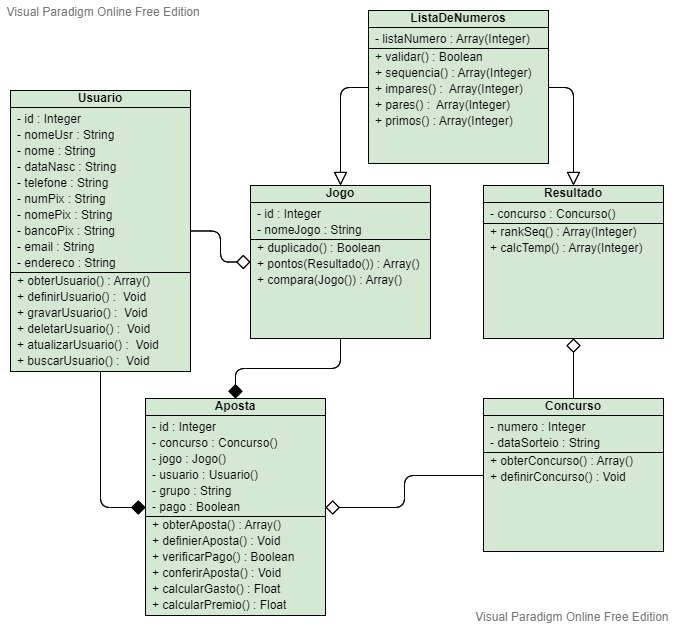
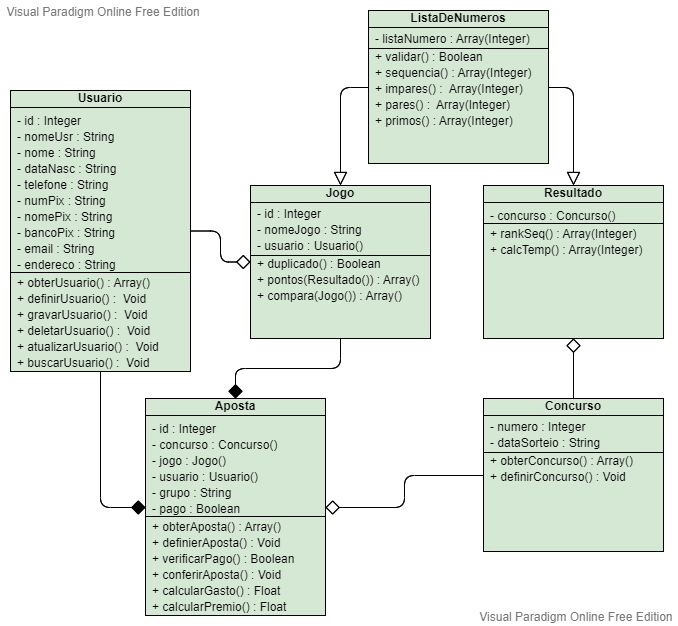
inicio2

diff --git a/criarjogo.php b/criarjogo.php
@@ -1,0 +1,19 @@
+<?php
+require_once "src/jogo.php";
+require_once "src/aposta.php";
+require_once "src/concurso.php";
+require_once "src/resultado.php";
+require_once "src/usuario.php";
+require_once "src/listadenumeros.php";
+
+
+$user01= new Usuario('Walysson dos Reis');
+
+$jogo01= new Jogo($user01,[1,2,3,4,5,6,7,8,9,10,11,12,13,14,15]);
+
+$cc01 = new Concurso(2500);
+
+$aposta01 = new Aposta($user01,$cc01,$jogo01);
+
+//echo var_dump($aposta01);
+

diff --git a/src/usuario.php b/src/usuario.php
@@ -1,0 +1,23 @@
+<?php
+
+class Usuario{
+
+    private int $id;
+    private string $nomeUsr;
+    private string $nome;
+    private string $dataNasc;
+    private string $telefone;
+    private string $numPix;
+    private string $nomePix;
+    private string $bancoPix;
+    private string $email;
+    private string $endereco;
+
+    public function __construct(string $nome)
+    {
+        $this->nome = $nome;
+    }
+
+    
+
+}

diff --git a/src/aposta.php b/src/aposta.php
@@ -1,0 +1,19 @@
+<?php
+
+class Aposta {
+
+    private int $id;
+    private Concurso $concurso;
+    private Jogo $jogo;
+    private Usuario $usuario;
+    private string $grupo;
+    private bool $pago;
+
+    public function __construct(Usuario $usuario, Concurso $concurso, Jogo $jogo)
+    {
+        $this->usuario=$usuario;
+        $this->concurso=$concurso;
+        $this->jogo=$jogo;
+        
+    }
+}

diff --git a/src/jogo.php b/src/jogo.php
@@ -1,0 +1,17 @@
+<?php
+
+require_once "src/listadenumeros.php";
+
+class Jogo extends ListaDeNumeros{
+    private int $id;
+    private string $nomeJogo;
+    private Usuario $usuario;
+
+    public function __construct(Usuario $usuario,Array $listaNumeros)
+    {
+
+        ListaDeNumeros::__construct($listaNumeros);
+        $this->usuario=$usuario;
+        
+    }
+}

diff --git a/src/resultado.php b/src/resultado.php
@@ -1,0 +1,14 @@
+<?php
+
+require_once "src/listadenumeros.php";
+
+class Resultado extends ListaDeNumeros{
+
+    private Concurso $concurso;
+    public function __construct(Concurso $concurso,Array $listaNumeros)
+    {
+        ListaDeNumeros::__construct($listaNumeros);
+        $this->concurso=$concurso;
+        
+    }
+}

diff --git a/src/listadenumeros.php b/src/listadenumeros.php
@@ -1,0 +1,11 @@
+<?php
+
+abstract class ListaDeNumeros{
+    protected  Array $listaNumeros;
+
+    public function __construct(Array $listaNumeros)
+    {
+        $this->listaNumeros=$listaNumeros;
+    }
+
+}

diff --git a/src/concurso.php b/src/concurso.php
@@ -1,0 +1,12 @@
+<?php
+
+class Concurso{
+
+    private int $numero;
+    private string $dataSorteio;
+
+    public function __construct(int $numero)
+    {
+        $this->numero=$numero;
+    }
+}
